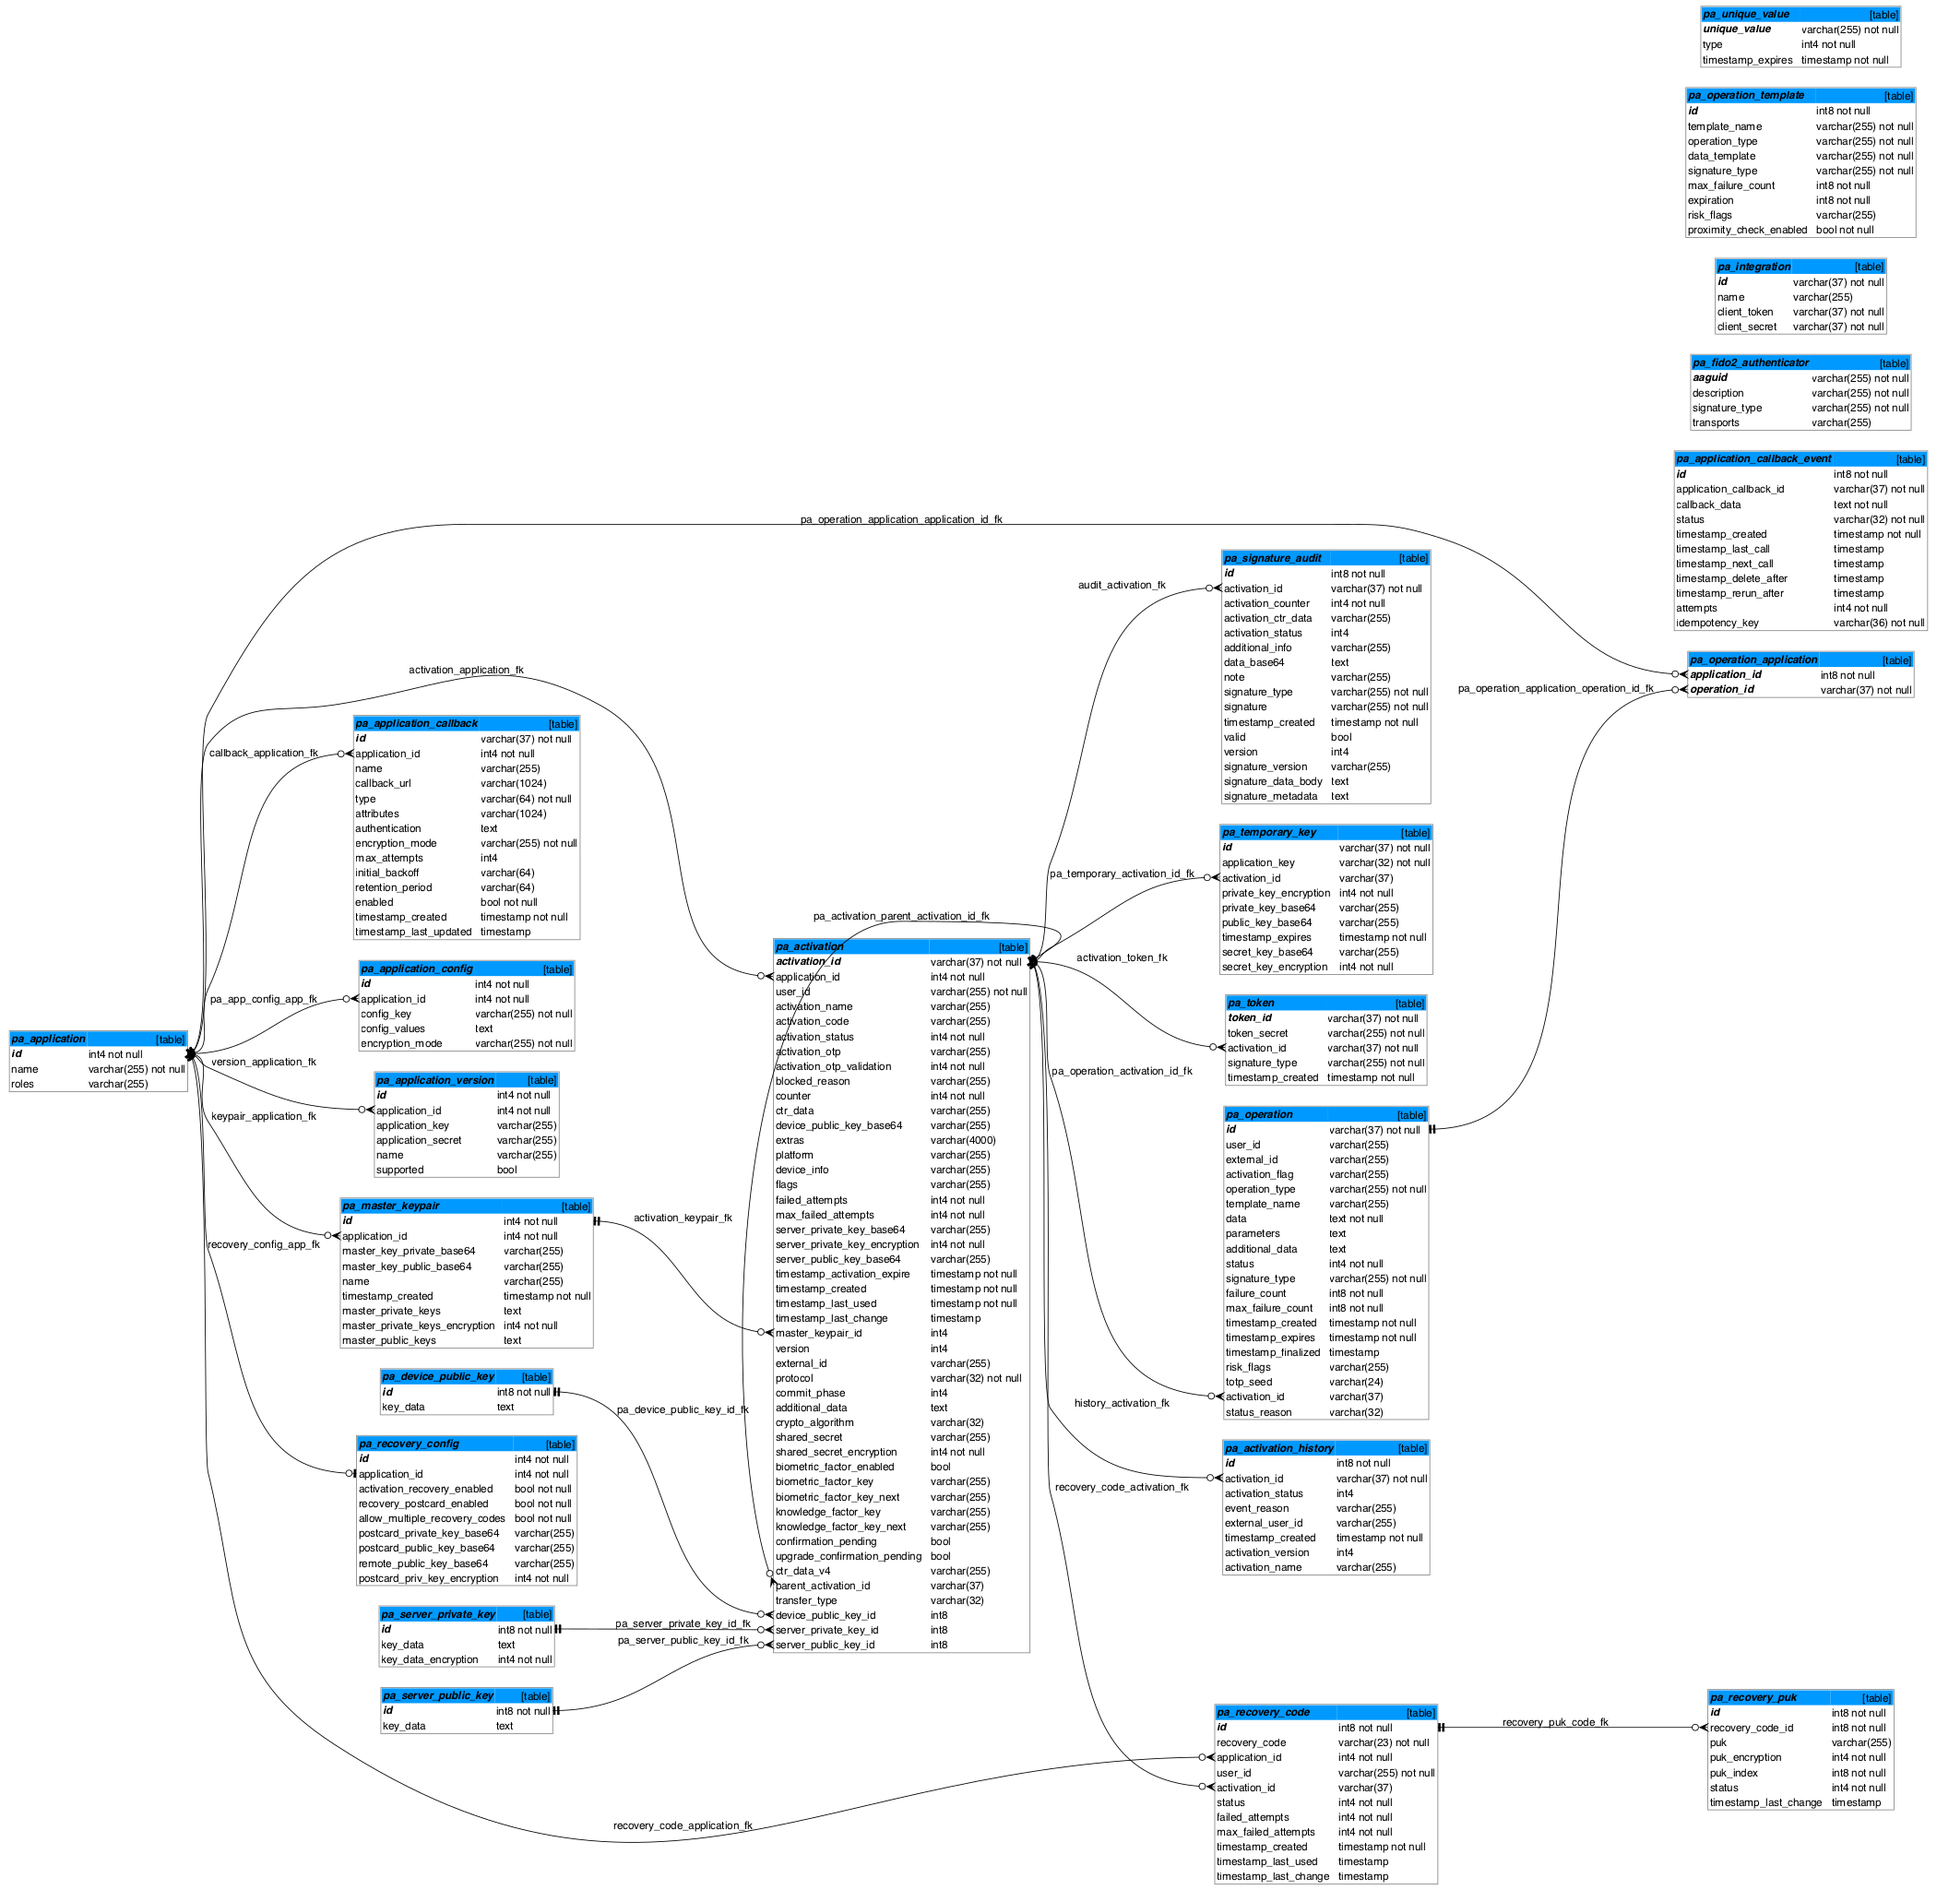
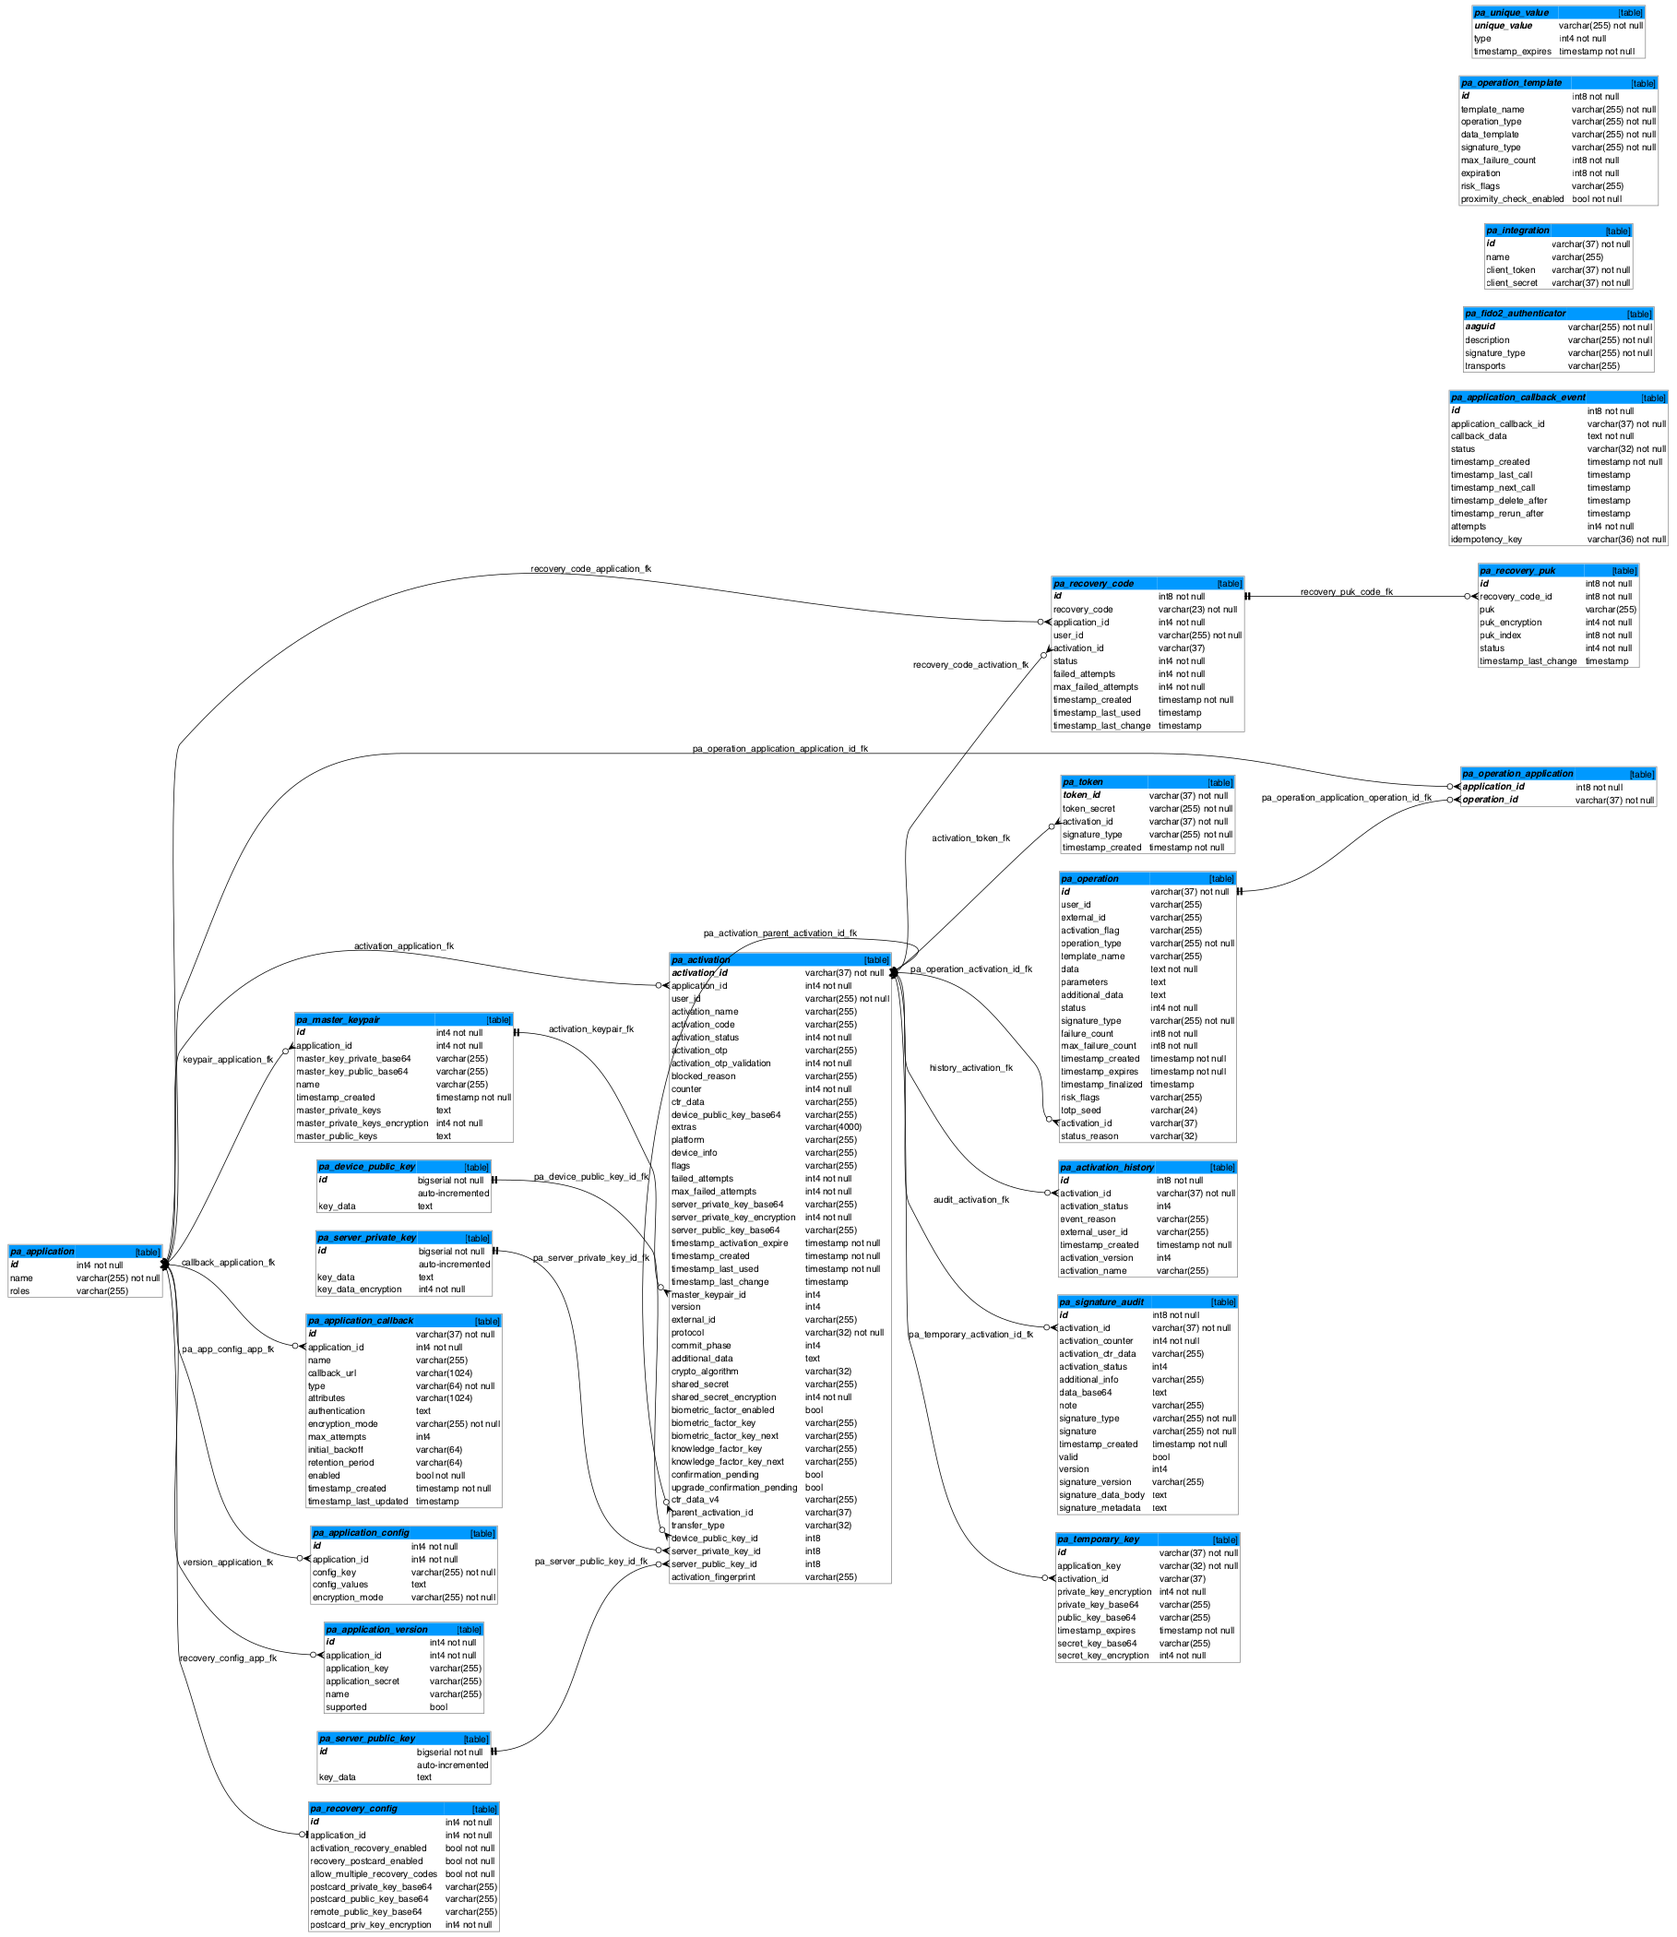
Fix #2206: Store the fingerprint in the pa_activation table (#2216)

diff --git a/powerauth-java-server/src/main/java/com/wultra/security/powerauth/app/server/service/behavior/tasks/v4/ActivationStatusServiceBehavior.java b/powerauth-java-server/src/main/java/com/wultra/security/powerauth/app/server/service/behavior/tasks/v4/ActivationStatusServiceBehavior.java
@@ -31,7 +31,6 @@ import com.wultra.security.powerauth.app.server.database.model.enumeration.Encry
 import com.wultra.security.powerauth.app.server.service.behavior.tasks.ActivationRemoveServiceBehavior;
 import com.wultra.security.powerauth.app.server.service.crypto.AlgorithmQueryService;
 import com.wultra.security.powerauth.app.server.service.crypto.AsymmetricSignatureService;
-import com.wultra.security.powerauth.app.server.service.crypto.CryptographyServiceFactory;
 import com.wultra.security.powerauth.app.server.service.exceptions.GenericServiceException;
 import com.wultra.security.powerauth.app.server.service.i18n.LocalizationProvider;
 import com.wultra.security.powerauth.app.server.service.model.ServiceError;
@@ -80,7 +79,6 @@ public class ActivationStatusServiceBehavior {
     private final LocalizationProvider localizationProvider;
     private final PowerAuthServiceConfiguration powerAuthServiceConfiguration;
     private final ActivationQueryService activationQueryService;
-    private final CryptographyServiceFactory cryptographyServiceFactory;
     private final ActivationSharedSecretConverter activationSharedSecretConverter;
     private final AlgorithmQueryService algorithmQueryService;
     private final AsymmetricSignatureService asymmetricSignatureService;
@@ -171,7 +169,6 @@ public class ActivationStatusServiceBehavior {
 
                     final byte[] statusBlob;
                     final SharedSecretAlgorithm sharedSecretAlgorithm;
-                    final String activationFingerPrint;
                     if (sharedSecretEncrypted != null) {
                         // Resolve shared secret algorithm
                         sharedSecretAlgorithm = activation.getCryptoAlgorithm();
@@ -212,11 +209,8 @@ public class ActivationStatusServiceBehavior {
                                 .put(statusBlobData)
                                 .put(statusBlobMac)
                                 .array();
-                        // Assign the activation fingerprint
-                        activationFingerPrint = cryptographyServiceFactory.getService(sharedSecretAlgorithm).generateActivationFingerprint(activation);
                     } else {
                         statusBlob = null;
-                        activationFingerPrint = null;
                     }
 
                     // return the data
@@ -240,7 +234,7 @@ public class ActivationStatusServiceBehavior {
                         response.setStatusBlob(Base64.getEncoder().encodeToString(statusBlob));
                     }
                     response.setActivationCode(null);
-                    response.setDevicePublicKeyFingerprint(activationFingerPrint);
+                    response.setDevicePublicKeyFingerprint(activation.getActivationFingerprint());
                     response.setPlatform(activation.getPlatform());
                     response.setProtocol(convertProtocol(activation.getProtocol()));
                     response.setExternalId(activation.getExternalId());

diff --git a/powerauth-java-server/src/main/java/com/wultra/security/powerauth/app/server/service/behavior/tasks/v4/ActivationProcessServiceBehavior.java b/powerauth-java-server/src/main/java/com/wultra/security/powerauth/app/server/service/behavior/tasks/v4/ActivationProcessServiceBehavior.java
@@ -30,6 +30,7 @@ import com.wultra.security.powerauth.app.server.service.behavior.tasks.Activatio
 import com.wultra.security.powerauth.app.server.service.behavior.tasks.ActivationValidationServiceBehavior;
 import com.wultra.security.powerauth.app.server.service.behavior.tasks.CallbackUrlBehavior;
 import com.wultra.security.powerauth.app.server.service.crypto.AlgorithmValidationService;
+import com.wultra.security.powerauth.app.server.service.crypto.CryptographyServiceFactory;
 import com.wultra.security.powerauth.app.server.service.crypto.v4.KeyPairGenerationService;
 import com.wultra.security.powerauth.app.server.service.exceptions.GenericServiceException;
 import com.wultra.security.powerauth.app.server.service.i18n.LocalizationProvider;
@@ -70,6 +71,7 @@ public class ActivationProcessServiceBehavior {
     private final ActivationRemoveServiceBehavior activationRemoveServiceBehavior;
     private final AlgorithmValidationService algorithmValidationService;
     private final KeyPairGenerationService keyPairGenerationService;
+    private final CryptographyServiceFactory cryptographyServiceFactory;
 
     public AeadEncryptedResponse processNewActivation(ActivationRecordEntity activation, DecryptionResult decryptionResult, String protocolVersion) throws GenericServiceException {
         try {
@@ -102,6 +104,8 @@ public class ActivationProcessServiceBehavior {
                 throw localizationProvider.buildRollbackingExceptionForCode(ServiceError.CRYPTOGRAPHY_ALGORITHM_NOT_SUPPORTED);
             }
 
+            activation.setCryptoAlgorithm(algorithm);
+
             // Validate activation OTP for stage ON_KEY_EXCHANGE
             activationValidationServiceBehavior.validateActivationOtp(CommitPhase.ON_KEY_EXCHANGE, layer2Request.getActivationOtp(), activation, null);
 
@@ -129,7 +133,9 @@ public class ActivationProcessServiceBehavior {
                 throw localizationProvider.buildRollbackingExceptionForCode(ServiceError.GENERIC_CRYPTOGRAPHY_ERROR);
             }
 
-            activation.setCryptoAlgorithm(SharedSecretAlgorithm.valueOf(requestPayload.getSharedSecretRequest().getAlgorithm()));
+            // Store the activation fingerprint
+            final String activationFingerprint = cryptographyServiceFactory.getService(algorithm).generateActivationFingerprint(activation);
+            activation.setActivationFingerprint(activationFingerprint);
 
             // Update and persist the activation record
             changeActivationStatusAndDeleteParent(activation, layer2Request);

diff --git a/powerauth-java-server/src/main/java/com/wultra/security/powerauth/app/server/service/behavior/tasks/v4/UpgradeServiceBehavior.java b/powerauth-java-server/src/main/java/com/wultra/security/powerauth/app/server/service/behavior/tasks/v4/UpgradeServiceBehavior.java
@@ -22,6 +22,7 @@ import com.fasterxml.jackson.databind.ObjectMapper;
 import com.wultra.security.powerauth.app.server.database.model.AdditionalInformation;
 import com.wultra.security.powerauth.app.server.database.model.entity.ActivationRecordEntity;
 import com.wultra.security.powerauth.app.server.service.behavior.tasks.ActivationHistoryServiceBehavior;
+import com.wultra.security.powerauth.app.server.service.crypto.CryptographyServiceFactory;
 import com.wultra.security.powerauth.app.server.service.crypto.v4.EncryptionServiceAead;
 import com.wultra.security.powerauth.app.server.service.crypto.v4.KeyPairGenerationService;
 import com.wultra.security.powerauth.app.server.service.exceptions.GenericServiceException;
@@ -75,6 +76,7 @@ public class UpgradeServiceBehavior {
     // Helper classes
     private final ObjectMapper objectMapper;
     private final ActivationHistoryServiceBehavior activationHistoryServiceBehavior;
+    private final CryptographyServiceFactory cryptographyServiceFactory;
 
     /**
      * Start upgrade of activation to version 3.
@@ -130,6 +132,7 @@ public class UpgradeServiceBehavior {
             }
 
             final SharedSecretAlgorithm algorithm = SharedSecretAlgorithm.valueOf(requestPayload.getSharedSecretRequest().getAlgorithm());
+            activation.setCryptoAlgorithm(algorithm);
 
             // Generate new server key pairs
             keyPairGenerationService.generateServerKeyPairs(activation, algorithm);
@@ -147,7 +150,10 @@ public class UpgradeServiceBehavior {
 
             // Set activation upgrade confirmation pending
             activation.setUpgradeConfirmationPending(true);
-            activation.setCryptoAlgorithm(algorithm);
+
+            // Store the activation fingerprint
+            final String activationFingerprint = cryptographyServiceFactory.getService(algorithm).generateActivationFingerprint(activation);
+            activation.setActivationFingerprint(activationFingerprint);
 
             final UpgradeStartResponsePayload responsePayload = new UpgradeStartResponsePayload();
             responsePayload.setSharedSecretResponse(sharedSecretResponsePayload.getSharedSecretResponse());

diff --git a/powerauth-java-server/src/main/java/com/wultra/security/powerauth/app/server/database/model/entity/ActivationRecordEntity.java b/powerauth-java-server/src/main/java/com/wultra/security/powerauth/app/server/database/model/entity/ActivationRecordEntity.java
@@ -262,6 +262,12 @@ public class ActivationRecordEntity implements Serializable {
     private ServerPublicKeyEntity serverPublicKey;
 
     /**
+     * Activation fingerprint derived from device public key and server public key.
+     */
+    @Column(name = "activation_fingerprint")
+    private String activationFingerprint;
+
+    /**
      * Pre-computed shared secret.
      */
     @Column(name = "shared_secret")

diff --git a/docs/Database-Structure.md b/docs/Database-Structure.md
@@ -95,6 +95,7 @@ Stores activations. Activation is a unit associating signature / transport and e
 | server_public_key_base64      | VARCHAR(255)  | -                                         | Server public key (legacy), Base64-encoded.                                                                                                                                              |
 | server_private_key_id         | BIGINT        | foreign key: pa\_server\_private\_key.id  | ID of the associated server private keys for V4 algorithms.                                                                                                                              |
 | server_public_key_id          | BIGINT        | foreign key: pa\_server\_public\_key.id   | ID of the associated server public keys for V4 algorithms.                                                                                                                               |
+| activation_fingerprint        | VARCHAR(255)  | -                                         | Fingerprint of the activation.                                                                                                                                                           |
 | shared_secret                 | VARCHAR(255)  | -                                         | Derived shared secret value.                                                                                                                                                             |
 | shared_secret_encryption      | INT(11)       | NOT NULL, DEFAULT 0                       | Encryption for `shared_secret`: 0=NO_ENCRYPTION, 1=AES_HMAC (legacy), 2=AEAD_KMAC (current).                                                                                             |
 | biometric_factor_enabled      | INT(11)       | -                                         | Indication whether biometric factor is enabled                                                                                                                                           |

diff --git a/docs/PowerAuth-Server-2.0.0.md b/docs/PowerAuth-Server-2.0.0.md
@@ -151,6 +151,10 @@ Additionally, existing columns were updated to allow nullable values:
 * The column `server_private_key_base64` in the `pa_activation` table was modified to allow `NULL` values.
 * The column `server_public_key_base64` in the `pa_activation` table was modified to allow `NULL` values.
 
+### Added new column for activation fingerprint persistence
+
+The column `activation_fingerprint` was added to the `pa_activation` table to persist activation fingerprints and eliminate repeated computation.
+
 ### Added new columns for activation spawn or move
 
 The columns `parent_activation_id` and `transfer_type` were added to the `pa_activation` table to track activation spawn or move.
